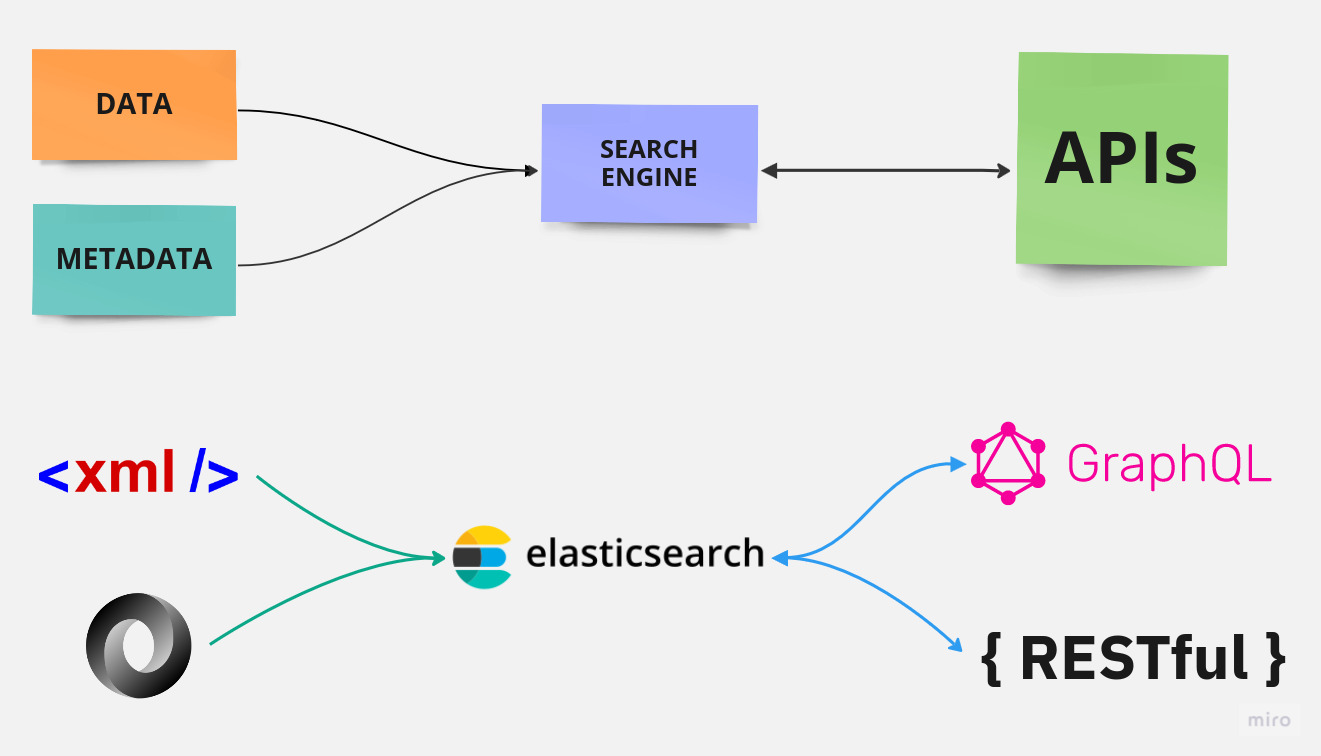
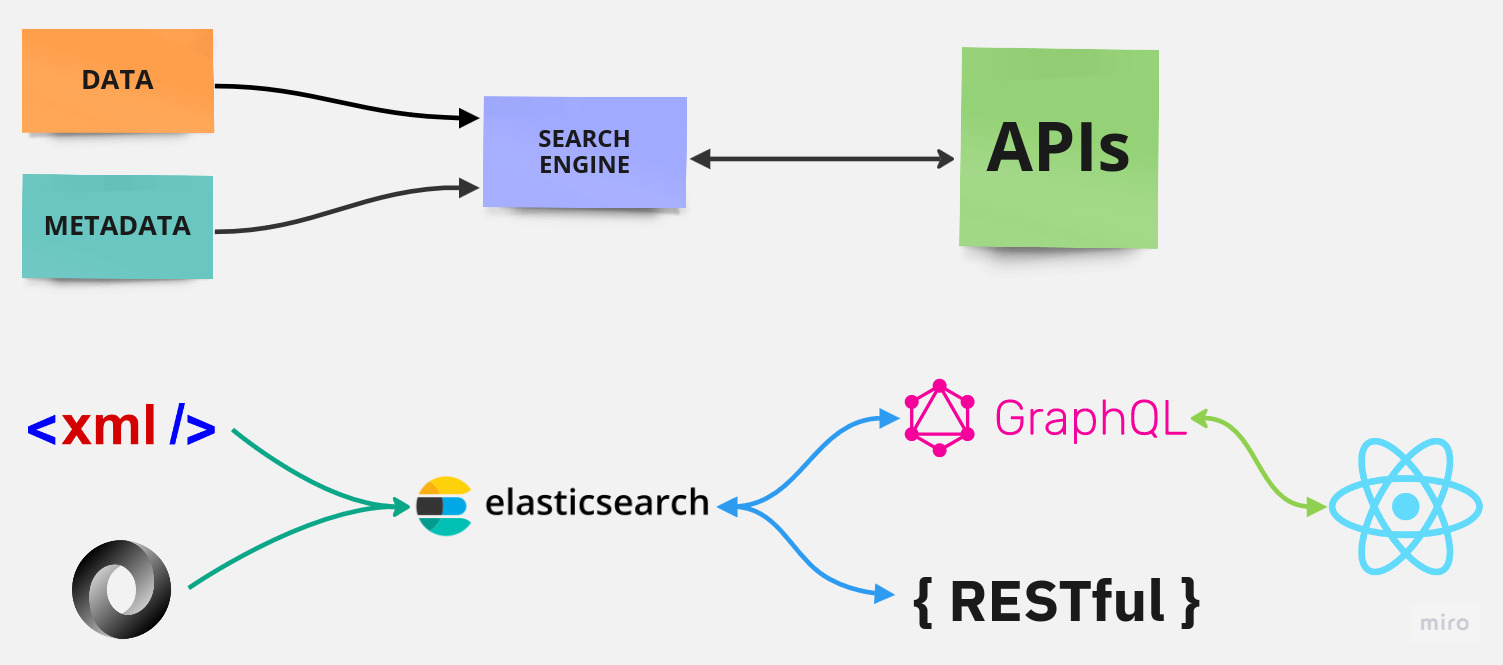
suite info added

diff --git a/next.config.js b/next.config.js
@@ -1,10 +1,8 @@
-/** @type {import('next').NextConfig} */
 const nextConfig = {
   experimental: {
     appDir: true,
   },
 }
-
 
 const withNextra = require('nextra')({
   theme: 'nextra-theme-docs',

diff --git a/pages/apis.md b/pages/apis.md
@@ -1,82 +1,113 @@
-
 # API Access and Search
+
 
 ## API Access
 
-Both APIs, REST and GraphQL, provide access to the same data that is contained in an elasticsearch index.
-You can access each REST API via Swagger and each GraphQL API via GraphiQL.
+When you run Kosh, your data is first parsed and indexed by [Elasticsearch](https://www.elastic.co/elasticsearch/). After your data has been processed, two APIs (both REST and GraphQL) are deployed which provide access to it.
+
+You can inspect the API endpoints through [Swagger](https://swagger.io/) for the REST API and [GraphiQL](https://github.com/graphql/graphiql/blob/main/packages/graphiql/README.md) for the GraphQL API.
+
+<!-- TODO: Add section with general info available through /api/id/ -->
 
 ### REST
 
-Kosh creates for each data module, two endpoints: `entries` and `ids`.
+For each data module, Kosh creates two endpoints: `entries` and `ids`.
 
-Each REST API comes with a Swagger UI. This is the best way to grasp the potential your API.
+`entries` lets you query items based on a search string. It returns all items (and their properties) that match your query. You will find an in-depth look at how [search](#search) works below.
 
-After deploying, you can search on each data module at the following address:
+`ids` returns the items matching the requested IDs.
 
-REST (Swagger UI): `http://localhost:5000/[your_index_name_here]/api/restful`
+After deploying Kosh locally, you can access each data module's contents at the following address, swapping `[your_index_name_here]` for the real index name of that module:
 
+`http://localhost:5000/api/[your_index_name_here]/restful`
+
+That link will also lead you to the Swagger UI where you can experiment with queries and check which parameters are required. Data is served as JSON.
 
 ### GraphQL
 
-Graphql offers only one endpoint but two query types: `entries` and `ids`.
+GraphQL offers only one endpoint but two query fields: `entries` and `ids`.
 
-GraphiQL: `http://localhost:5000/[your_index_name_here]/api/graphql`
+As described above, they provide you with the means to either search items based on an arbitrary search string or to pull out specific items based on their ID.
+
+After deploying Kosh locally, you can access each data module through GraphQL by using the following endpoint:
+
+`http://localhost:5000/api/[your_index_name_here]/graphql`
+
+There, you can also use the GraphiQL "playground" to experiment with queries, with the added benefit of error highlighting and auto-completion.
 
 ## Search
 
-The most important functionality of a digital dictionary is to provide an efficient search system.
-Therefore at the core of the Kosh system is elasticsearch, an open-source search engine that is fast and design to scale with little effort.
+The most important functionality of a digital dictionary is to provide an efficient search system. Therefore, at the core of the Kosh system is Elasticsearch, an open-source search engine that is fast and designed to scale with little effort.
 
 ### Overview
 
-- In both APIs of each dataset, you can do the same type of queries. The difference between both APIs is that in GraphQL you have to specify which fields should be returned.
-- Besides the fields that you have configured to be indexed, Kosh indexes per default the whole XML entry. The XML tags and attributes are not indexed. 
-This means that you can search in the whole text of the entry. This comes handy when the datset has not been properly structured and you need to search on it while working on its improvement.
+Regardless of the API you are using, the basic structure of your search query and the data you get in return are the same. The difference between both APIs is that in GraphQL, you have to specify which fields should be returned.
 
+Besides the fields that you have explicitly configured to be indexed, Kosh indexes, per default, the whole XML entry. XML tags and attributes are **not** indexed.
 
-### Query types
+This approach enables you to use full-text search across the entire content of the entry, which also comes in handy when the structure of the data has not yet been finalized, but you already want to search through it while working to improve it.
 
-Kosh offers the following elastic subset query types:
-```
-term 
-match
-fuzzy 
-wildcard 
-regexp 
-prefix 
-terms 
-match_phrase 
-```
+### Query Structure
 
-### Query example
+Querying for `entries`, the search string is matched against the content of a specific field or property of each lexical item. There are several search strategies which may be used that we call query types ([see below](#query-types) for a full list).
 
-In the Basque dictionary '[Hiztegi Batua](/implementations/kosh_data.md#hiztegi-batua-basque)' get those the entries with headwords ending with 'eko':
+Required fields: 
+* the field you want to query (`field`), 
+* your query string (`query`), 
+* the query type (`query_type`)
 
+Optional fields are: 
+* the number of entries you want returned (`size`, the default is 20)
+
+### Query Types
+
+Kosh offers the following subset of Elasticsearch query types:
+
+| Query Type | Explanation |
+|---|---|
+| `term` | Returns documents that contain an exact term in a provided field. |
+| `match` | Returns documents that match a provided text, number, date or boolean value. |
+| `fuzzy` | Returns documents that contain terms similar to the search term. Similarity, or fuzziness, is measured using a Levenshtein edit distance. |
+| `wildcard` | Returns documents that contain terms matching a wildcard pattern. |
+| `regexp` | Returns documents that contain terms matching a regular expression. |
+| `prefix` | Returns documents that contain a specific prefix in a provided field. |
+| `match_phrase` | Returns documents that contain an exact phrase. |
+
+From the Elasticsearch Documentation:
+* [term-level queries](https://www.elastic.co/guide/en/elasticsearch/reference/current/term-level-queries.html)
+* [full-text queries](https://www.elastic.co/guide/en/elasticsearch/reference/current/full-text-queries.html)
+
+### Query Example
+
+In this section, we want to look at a specific example of how to query data using both the REST and GraphQL API endpoints.
+
+Say you want to query the Basque dictionary [Hiztegi Batua](/implementations/kosh_data.md#hiztegi-batua-basque), which we provide as part of the Kosh sample data. 
+If you want to get all the entries in that dictionary with lemmas ending in `eko`, you could use the following queries.
 
 #### REST API
 
-A REST version of the previous query would look like this:
+A REST version of the query would look like this:
 
 <https://kosh.uni-koeln.de/api/hiztegibatua/restful/entries?field=lemma&query=*eko&query_type=wildcard>
 
-Elasticsearch returns per default a maximum of 20 results per query. You can increase this value with the `size` parameter:
-
-<https://kosh.uni-koeln.de/api/hiztegibatua/restful/entries?field=lemma&query=*eko&query_type=wildcard&size=50>
-
+The parameters used:
+```
+field = lemma
+query = *eko
+query_type = wildcard
+```
 
 #### GraphQL API
 
-In GraphQL you have to declare explicitly which fields you would like to receive in the results.
-Let's only ask for those lemmas ending with 'eko':
+While REST returns the entire dictionary entry, GraphQL only supplies what you explicitly ask for. 
+To return only the lemmas:
 
 ```graphql
 {
-  entries(queryType: wildcard, query: "*eko", field: lemma, size: 50) {
+  entries(queryType: wildcard, query: "*eko", field: lemma) {
     lemma
   }
 }
-
 ```
 
-Copy + paste the query snippet and execute it here: <https://kosh.uni-koeln.de/api/hiztegibatua/graphql>
+For testing, copy & paste the query snippet and execute it here: <https://kosh.uni-koeln.de/api/hiztegibatua/graphql>

diff --git a/pages/index.md b/pages/index.md
@@ -1,15 +1,20 @@
-# Kosh - APIs for Lexical Data
+# Kosh Suite - An API Framework for Lexical Data
 
 
-Kosh is an open-source framework designed to create and maintain APIs for lexical data.
+The Kosh Suite is an API-centric, open-source framework designed to efficiently manage and access lexical data.
 
+![kosh_overview](/kosh_overview.jpg)
 
-[View it on GitHub](https://github.com/cceh/kosh)
-![Hello](/kosh_overview.jpg)
+### Backend
+The framework's backbone, [kosh](https://github.com/cceh/kosh), is designed with the capability to provide API access to any XML-encoded lexical dataset, independently of the underlying data model. 
 
-Kosh enables API access to **any XML-encoded** lexical dataset, regardless of the employed data model.
+### Frontend
+In conjunction with the backend, the frontend, [kosh_client](https://github.com/cceh/kosh), brings you a user-friendly interface, built using React. This web application simplifies the process of searching within the diverse and extensive datasets indexed by Kosh.
+
+### Why *Kosh*?
 
 The name "Kosh" originates from the Hindi word for dictionary or lexicon, कोश (*koś* or *kosh*), which itself derives from Sanskrit कोश (*kośa*) with the same meaning.
+
 
 ## Features
 

diff --git a/pages/Deployment/backend.md b/pages/Deployment/backend.md
@@ -1,5 +1,5 @@
 
-# Deploying Kosh 
+# Deploying Kosh's Backend
 
 ## Input: Data module
 

diff --git a/pages/Deployment/frontend.md b/pages/Deployment/frontend.md
@@ -1,0 +1,1 @@
+# Deploying Kosh's Frontend
